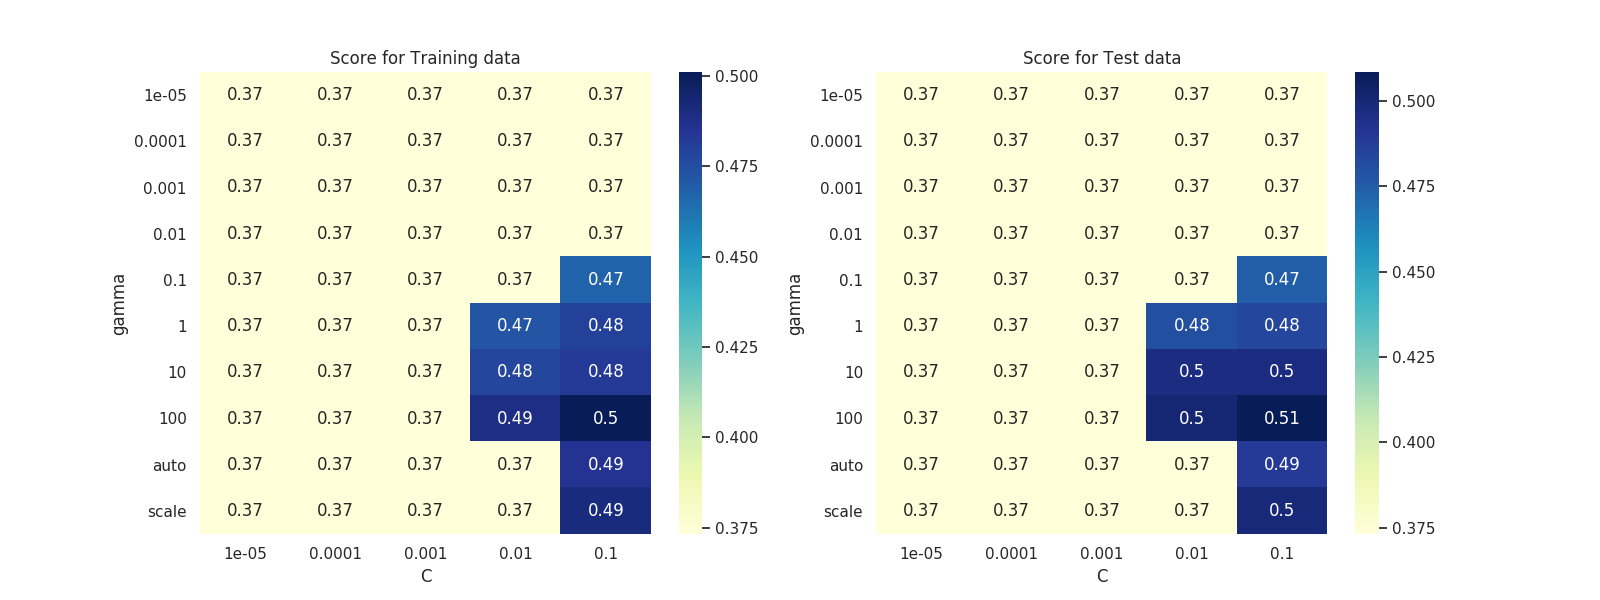
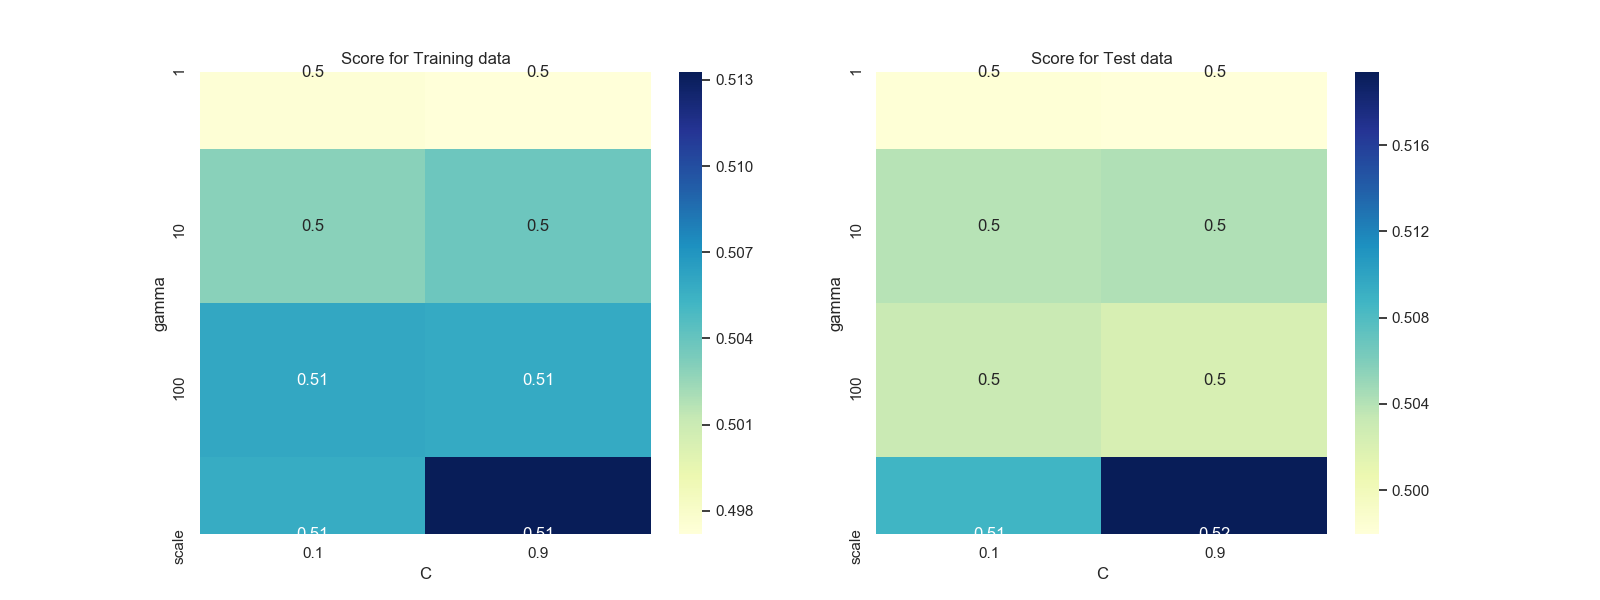
svm

diff --git a/svms/svm.py b/svms/svm.py
@@ -42,8 +42,8 @@ def gs_plot(cv_results_, save_name):
 
 models = []
 
-with open('results_svm.txt', "a") as log_file:
-    for lag in range(0, 6):
+with open('results_svm_ema.txt', "a") as log_file:
+    for lag in range(0, 8):
         data = pd.read_csv("../lag"+str(lag)+".csv", index_col=0)
         def toint(output):
             return int(output)
@@ -56,38 +56,44 @@ with open('results_svm.txt', "a") as log_file:
             .map(toint)
         data['day'] = data['date']\
             .map(to_day)
-        data = data[['day', 'time', 'retweet_count', 'neg', 'neu', 'pos', 'cmpd','IsTradingDay', 'numTweets', 'output']]
+        data = data[['day', 'time', 'retweet_count', 'neg', 'neu', 'pos', 'cmpd', 'IsTradingDay', 'numTweets', 'EMA5',
+                     'EMA10', 'EMA20', 'output']]
 
         print(data.columns)
-        #'date', 'time', 'retweet_count', 'neg', 'neu', 'pos', 'cmpd',
-        #'IsTradingDay', 'numTweets', 'Output', 'output', 'day'
 
         data_test = data[:4654].sample(frac=1)
         data_train = data[4654:].sample(frac=1)
-        #print(data_test)
-        #print(data_train)
+        # print(data_test)
+        # print(data_train)
 
         y_train = data_train['output']
         y_test = data_test['output']
 
-        X_train = data_train[['time', 'day', 'retweet_count', 'neg', 'neu', 'pos', 'cmpd', 'IsTradingDay', 'numTweets']]
-        X_test = data_test[['time', 'day', 'retweet_count', 'neg', 'neu', 'pos', 'cmpd', 'IsTradingDay', 'numTweets']]
-        #print(X_train)
-        #print(len(data.date.unique())) 1081 dates but 1098 days
+        X_train = data_train[['time', 'day', 'retweet_count', 'neg', 'neu', 'pos', 'cmpd', 'IsTradingDay', 'numTweets',
+                              'EMA5', 'EMA10', 'EMA20']]
+        X_test = data_test[['time', 'day', 'retweet_count', 'neg', 'neu', 'pos', 'cmpd', 'IsTradingDay', 'numTweets',
+                            'EMA5', 'EMA10', 'EMA20']]
+        # print(X_train)
+        # print(len(data.date.unique())) 1081 dates but 1098 days
 
-        #columns are date,time,retweet_count,neg,neu,pos,cmpd,IsTradingDay,numTweets,Output
-        #scale columns that are numerical values not labeled classes
+        # columns are date,time,retweet_count,neg,neu,pos,cmpd,IsTradingDay,numTweets,Output
+        # scale columns that are numerical values not labeled classes
         sc = StandardScaler()
-        sc.fit(X_train[['time', 'day', 'retweet_count', 'neg', 'neu', 'pos', 'cmpd', 'numTweets']])
-        X_train[['time', 'day', 'retweet_count', 'neg', 'neu', 'pos', 'cmpd', 'numTweets']] = \
-            sc.transform(X_train[['time', 'day', 'retweet_count', 'neg', 'neu', 'pos', 'cmpd', 'numTweets']])
-        X_test[['time', 'day', 'retweet_count', 'neg', 'neu', 'pos', 'cmpd', 'numTweets']] = \
-            sc.transform(X_test[['time', 'day', 'retweet_count', 'neg', 'neu', 'pos', 'cmpd', 'numTweets']])
+        sc.fit(X_train[['time', 'day', 'retweet_count', 'neg', 'neu', 'pos', 'cmpd', 'numTweets', 'EMA5', 'EMA10',
+                        'EMA20']])
+        X_train[['time', 'day', 'retweet_count', 'neg', 'neu', 'pos', 'cmpd', 'numTweets', 'EMA5', 'EMA10', 'EMA20']] = \
+            sc.transform(X_train[
+                             ['time', 'day', 'retweet_count', 'neg', 'neu', 'pos', 'cmpd', 'numTweets', 'EMA5', 'EMA10',
+                              'EMA20']])
+        X_test[['time', 'day', 'retweet_count', 'neg', 'neu', 'pos', 'cmpd', 'numTweets', 'EMA5', 'EMA10', 'EMA20']] = \
+            sc.transform(X_test[
+                             ['time', 'day', 'retweet_count', 'neg', 'neu', 'pos', 'cmpd', 'numTweets', 'EMA5', 'EMA10',
+                              'EMA20']])
         features = list(X_train.columns.values)
         print(X_train.shape)
         print(X_test.shape)
-        param_grid = {'C': [1e-5,1e-4, 1e-3, 1e-2, 0.1],# 1, 10, 100],
-                          'gamma': ['auto','scale', 1e-5, 1e-4, 1e-3, 1e-2, 0.1, 1, 10, 100],
+        param_grid = {'C': [.1,.9], #[1e-5,1e-4, 1e-3, 1e-2, 0.1],# 1, 10, 100],
+                          'gamma': ['scale',1,10,100], #'['auto','scale', 1e-5, 1e-4, 1e-3, 1e-2, 0.1, 1, 10, 100],
                           'kernel': ['sigmoid']}
         print(sorted(SCORERS.keys()))
 
